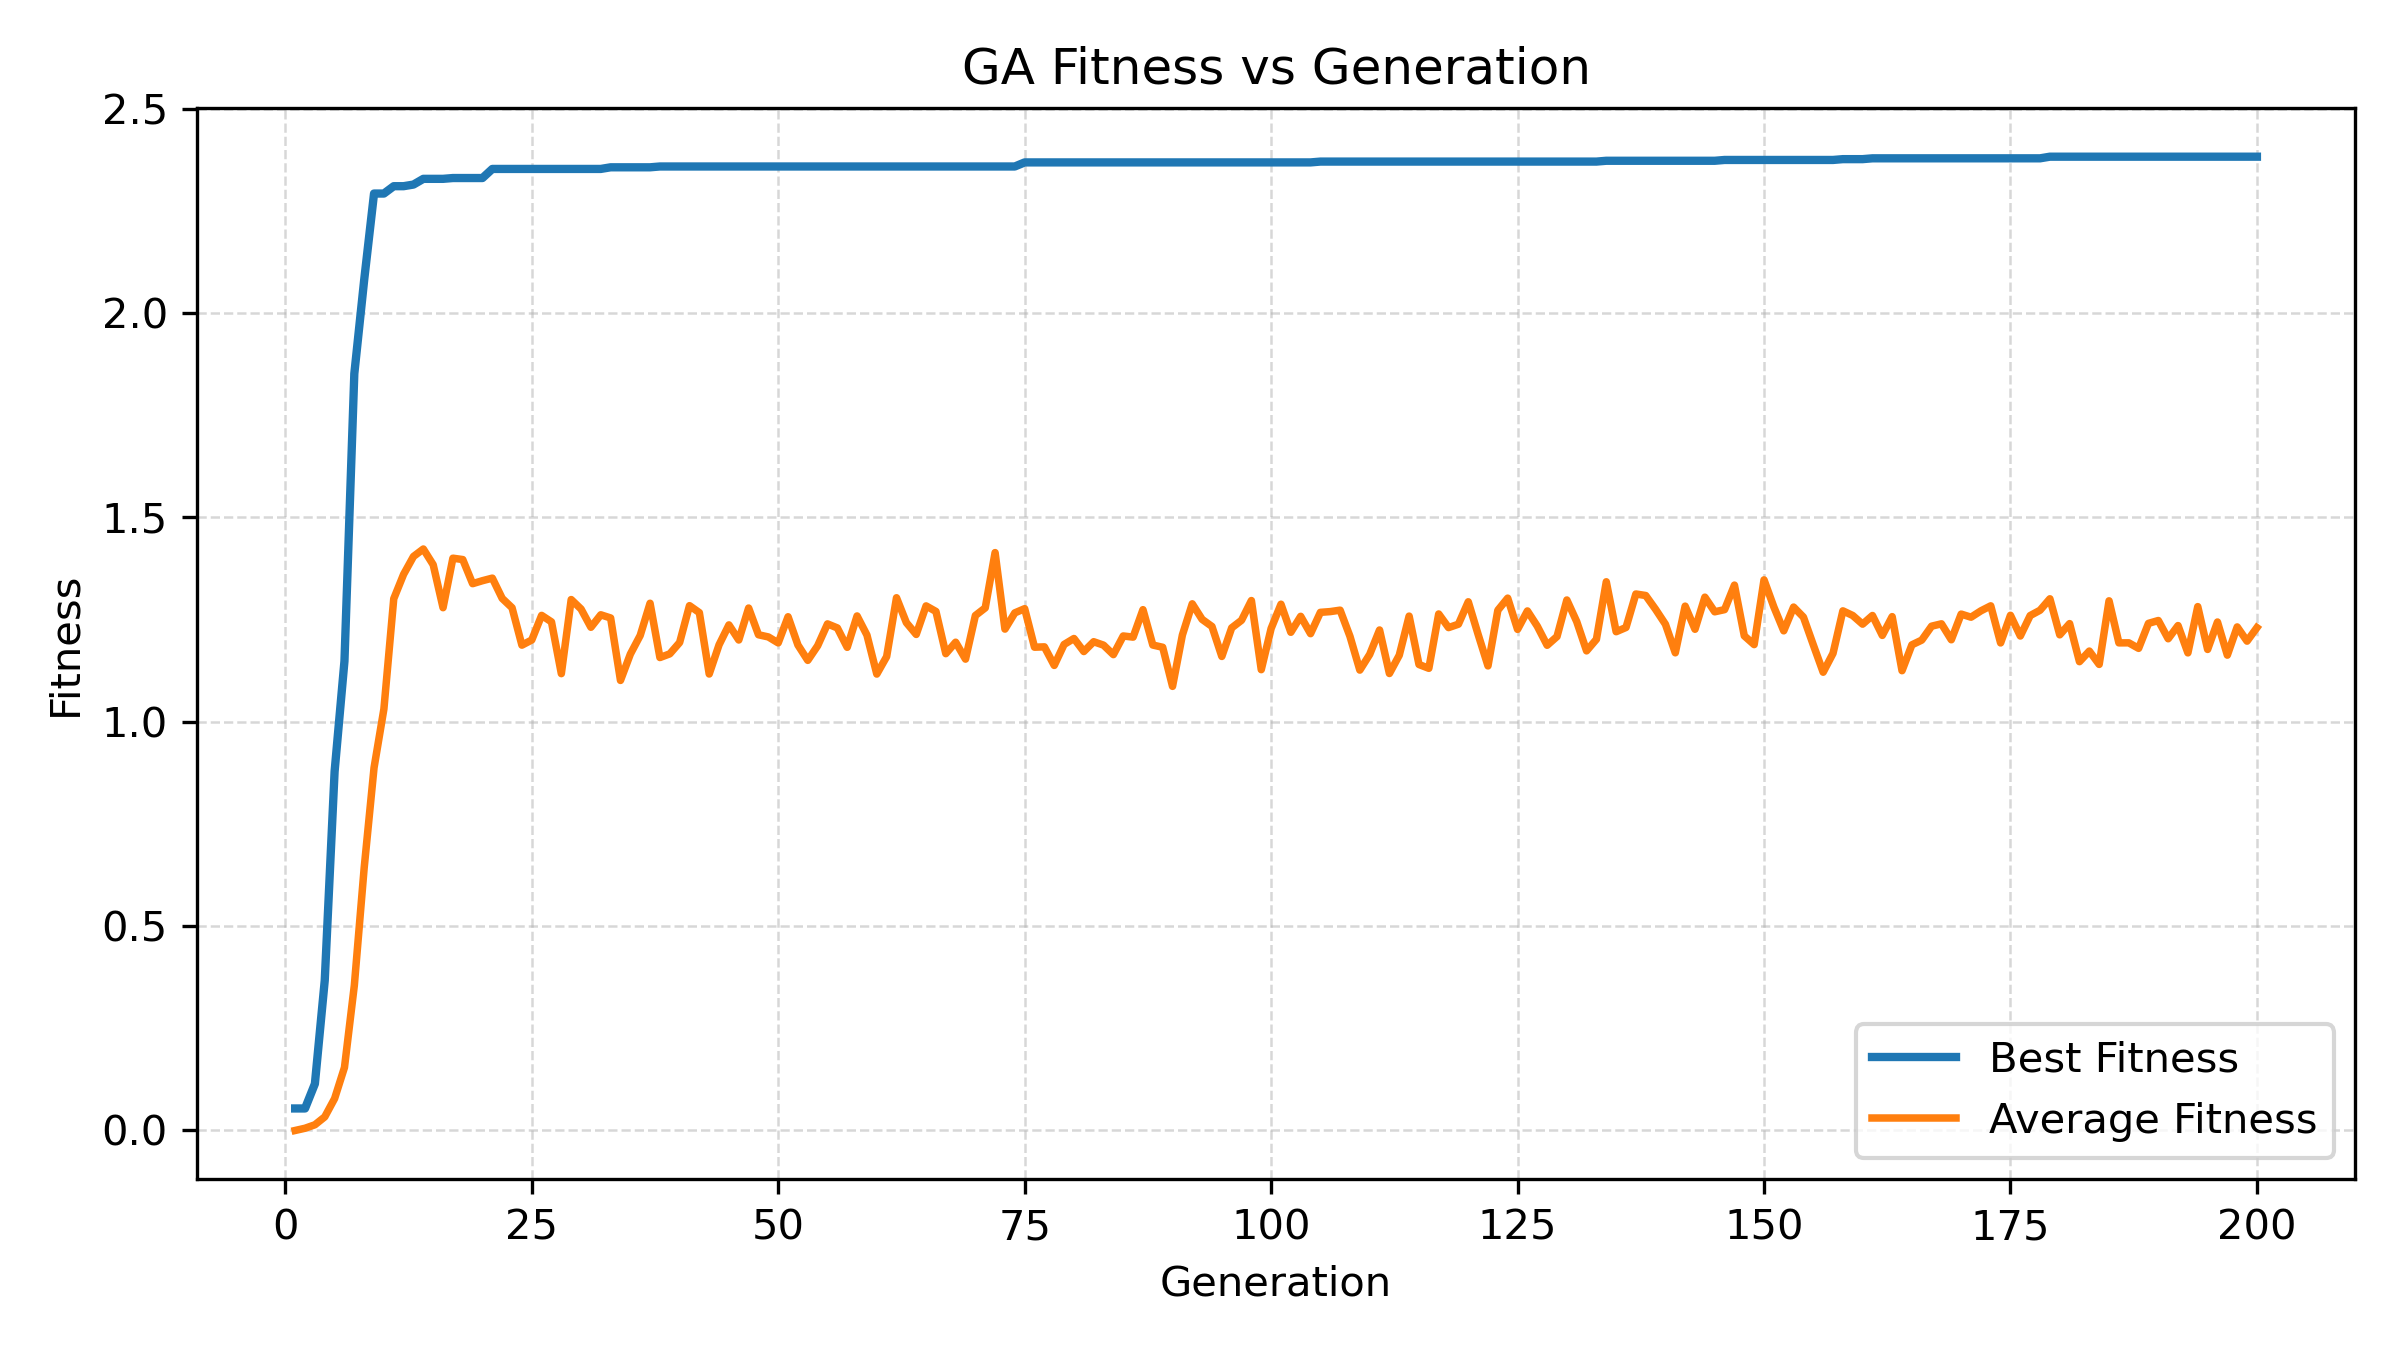
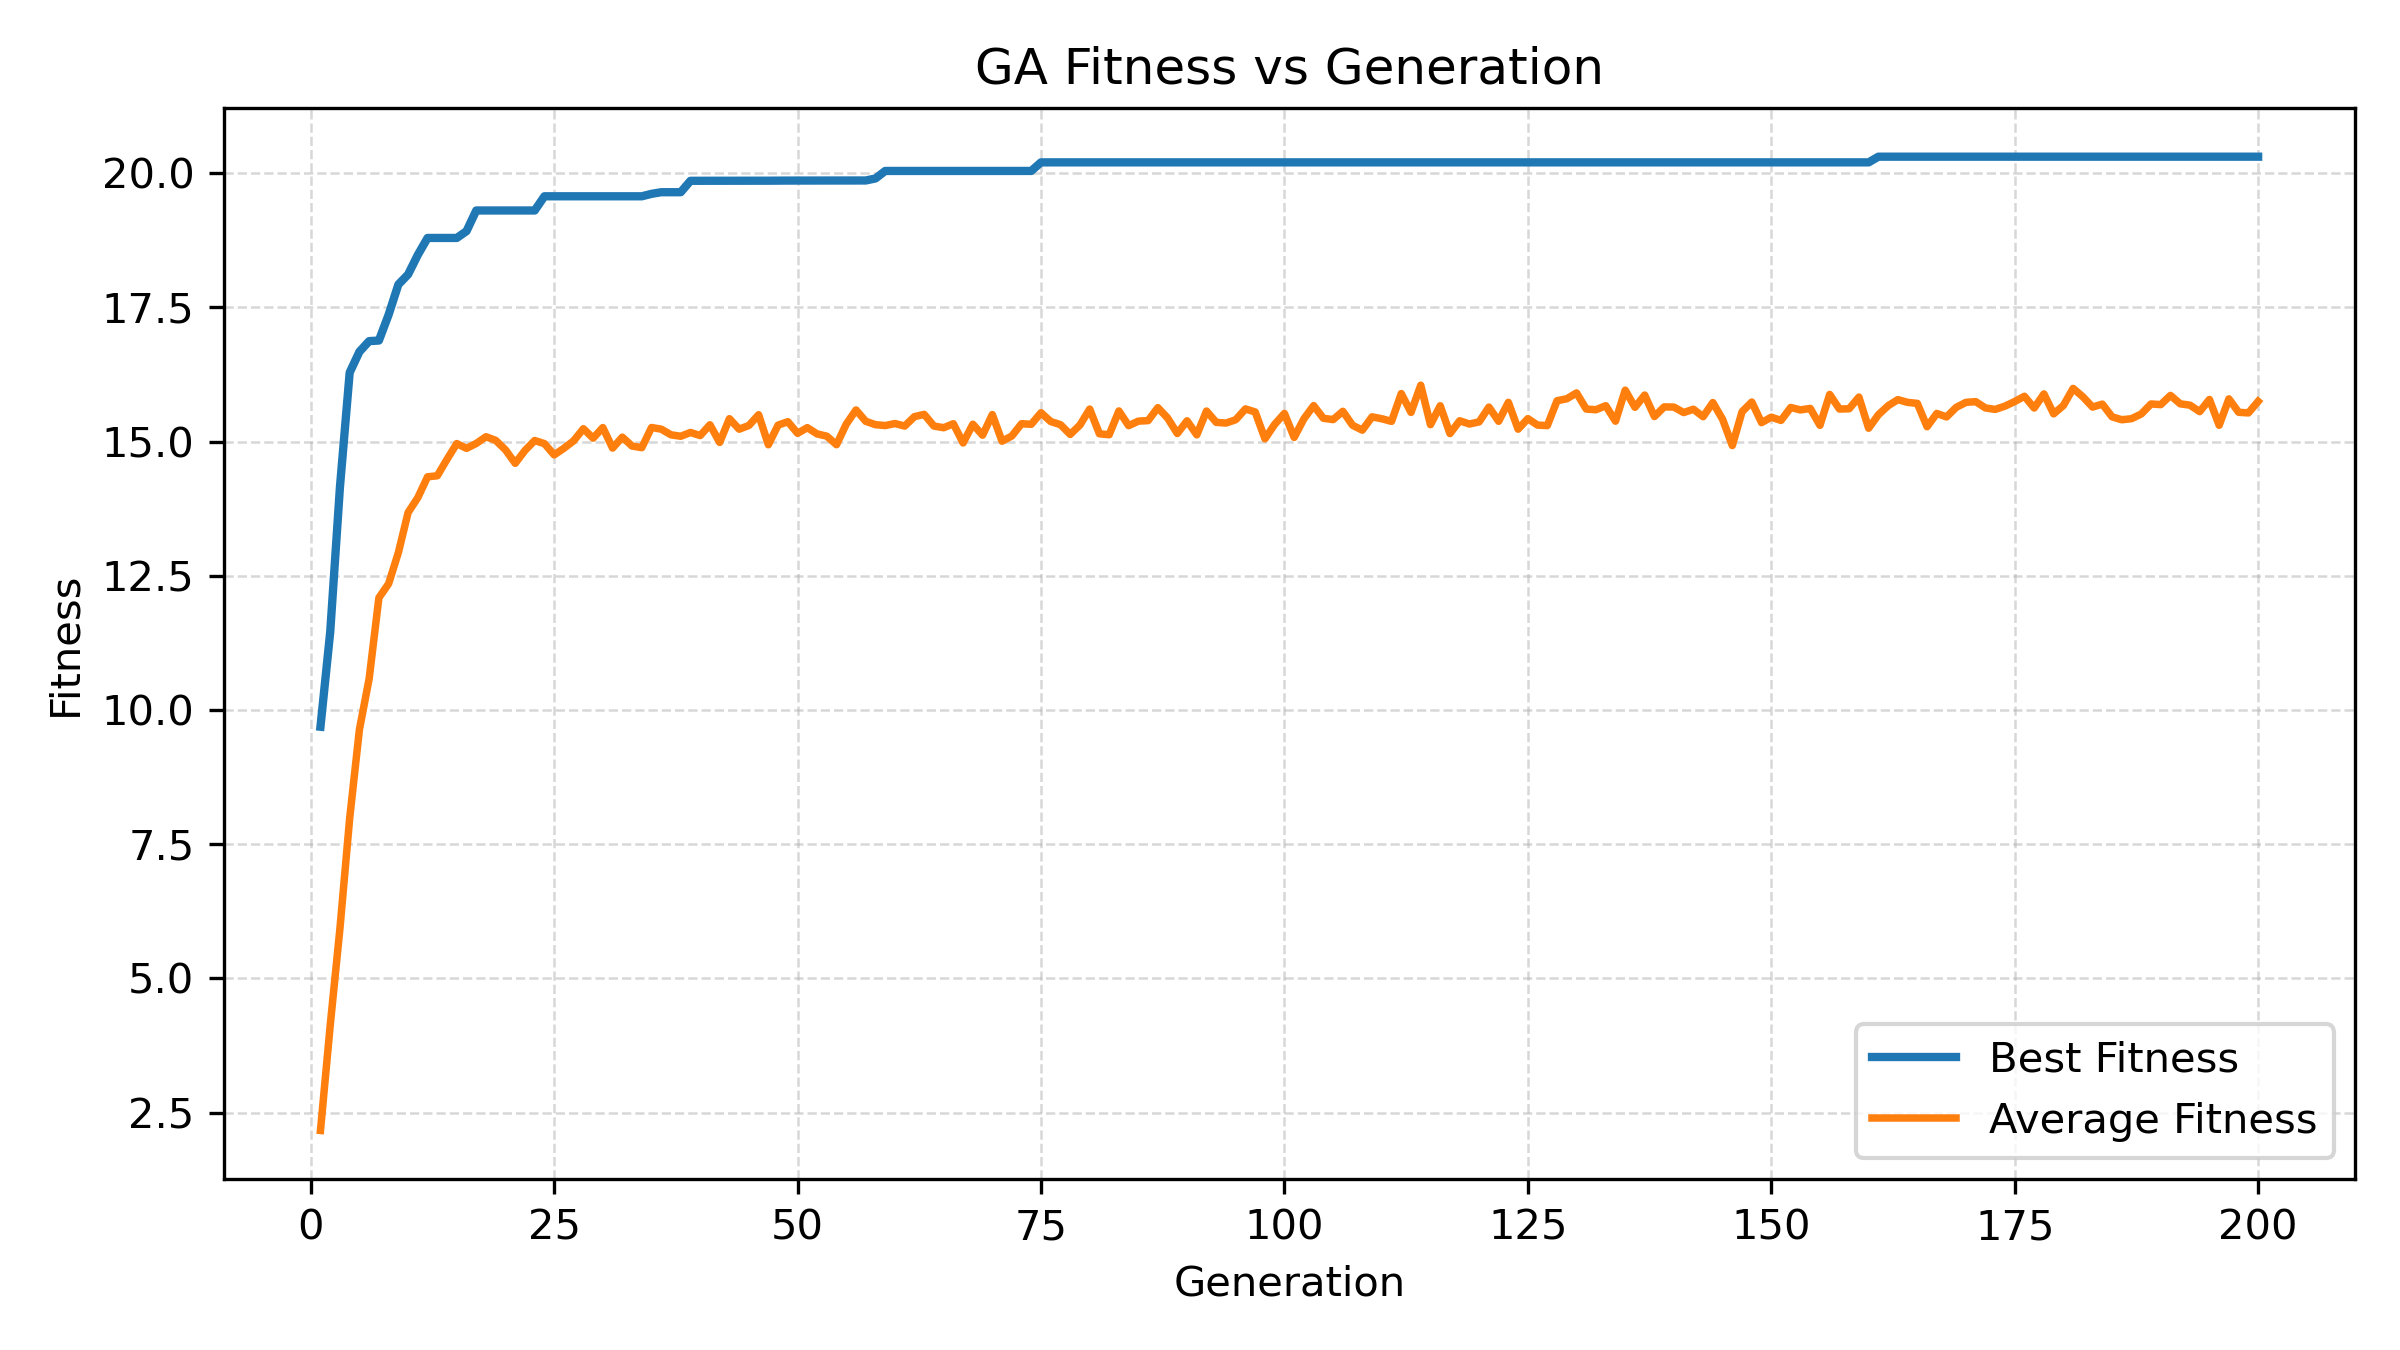
e

diff --git a/src/apr3_class_python/genetic_algorithm.py b/src/apr3_class_python/genetic_algorithm.py
@@ -9,7 +9,7 @@ TOURNAMENT_K = 5  # Number of contestants in tournament selection, default is 3
 TARGET_DISTANCE_THRESHOLD_MM = 1.0  # Distance threshold for trimming chromosomes
 POPULATION_SIZE = 150  # Number of chromosomes per generation
 RANDOM_BACKFILL_PERCENT = 0.15  # Fraction of new random individuals per generation
-EE_Z_OFFSET_MM = 195.0  # End-effector Z-axis offset in millimeters
+EE_Z_OFFSET_MM = 0.0  # End-effector Z-axis offset in millimeters (Default of 195.0)
 STEP_SIZE = 2  # Step size for each action in joint space
 NUM_GENERATIONS = 200  # Default number of generations to evolve, default is 100
 INITIAL_GENE_LENGTH_RANGE = (10, 60)  # Range for initial chromosome length
@@ -23,7 +23,7 @@ CONVERGENCE_CHECK = False  # Enable early stopping on convergence, default is Fa
 CONVERGENCE_TOLERANCE = 0.01  # Minimum fitness improvement threshold. Will exit if improvement is less than this value for 10 consecutive generations.
 
 FITNESS_PLOT_ENABLED = True  # Enable fitness history plotting
-FITNESS_PLOT_FILENAME = "ga_fitness_history.png"  # Output plot filename
+FITNESS_PLOT_FILENAME =  "ga_fitness_history.png"  # Output plot filename
 FITNESS_PLOT_DPI = 300  # Resolution for saved plot
 
 class GeneAlgo:
@@ -59,6 +59,8 @@ class GeneAlgo:
     ### STEP 2: SET GOAL (X, Y, Z) IN MILLIMETRES FROM MAIN FUNCTION
     def setGoal(self, goal):
         goal_vector = np.asarray(goal, dtype=float)
+        #subtract the height of the arm base to shift the ground plane down
+        goal_vector[2] -= EE_Z_OFFSET_MM
         if goal_vector.shape != (3,):
             raise ValueError("Goal must be a 3-element vector [X, Y, Z] in millimetres.")
         self.goal = goal_vector
@@ -154,9 +156,6 @@ class GeneAlgo:
                 "fitness": -length_penalty,
             }
         
-
-
-
         #################################################################################
         ############################## DISTANCE REWARD ##################################
 
@@ -167,7 +166,7 @@ class GeneAlgo:
         initial_pos_xyz = self.calHandPosition(self.INITIAL_POS)
         Max_Dist = np.linalg.norm(self.goal - initial_pos_xyz)
         # distance_reward = 1.0 - (min_distance / Max_Dist)
-        distance_reward = np.exp(-7.0 * (min_distance / Max_Dist))
+        distance_reward = np.exp(-5.0 * (min_distance / Max_Dist))
         distance_reward = np.clip(distance_reward, 0.0, 1.0)
         #################################################################################
 
@@ -179,7 +178,7 @@ class GeneAlgo:
             theta = -best_state[0] + best_state[1] - best_state[2]
             pose_score = max(0.0, 1.0 - abs(theta - 180.0) / 180.0)
         #Expand pose reward when close to target, minimal reward when far to encourage exploration, higher reward when close to encourage correct poses
-        pose_weight_factor = np.clip(1.0 - (min_distance / 50.0), 0.0, 1.0)
+        pose_weight_factor = np.clip(1.0 - (min_distance / 300.0), 0.0, 1.0)
         pose_reward = pose_weight_factor * pose_score
 
         #################################################################################
@@ -212,11 +211,8 @@ class GeneAlgo:
 
         # Add together your rewards and penalties to compute a single fitness score for this chromosome.
         # Goal: Maximize the fitness score!
-        fitness = distance_reward + 1.5 * pose_reward - length_penalty - smoothness_penalty
+        fitness = distance_reward + 20.0 * pose_reward - length_penalty - smoothness_penalty
         #################################################################################
-
-
-
 
         return {
             "minimum_distance": min_distance,

diff --git a/src/apr3_class_python/ga_main.py b/src/apr3_class_python/ga_main.py
@@ -8,7 +8,7 @@ from genetic_algorithm import GeneAlgo
 # ----------------------------
 # IDE Runtime Configuration
 # ----------------------------
-GOAL_X = 160  # Target X position in millimeters
+GOAL_X = 200  # Target X position in millimeters
 GOAL_Y = 0  # Target Y position in millimeters
 GOAL_Z = -190  # Target Z position in millimeters
 
